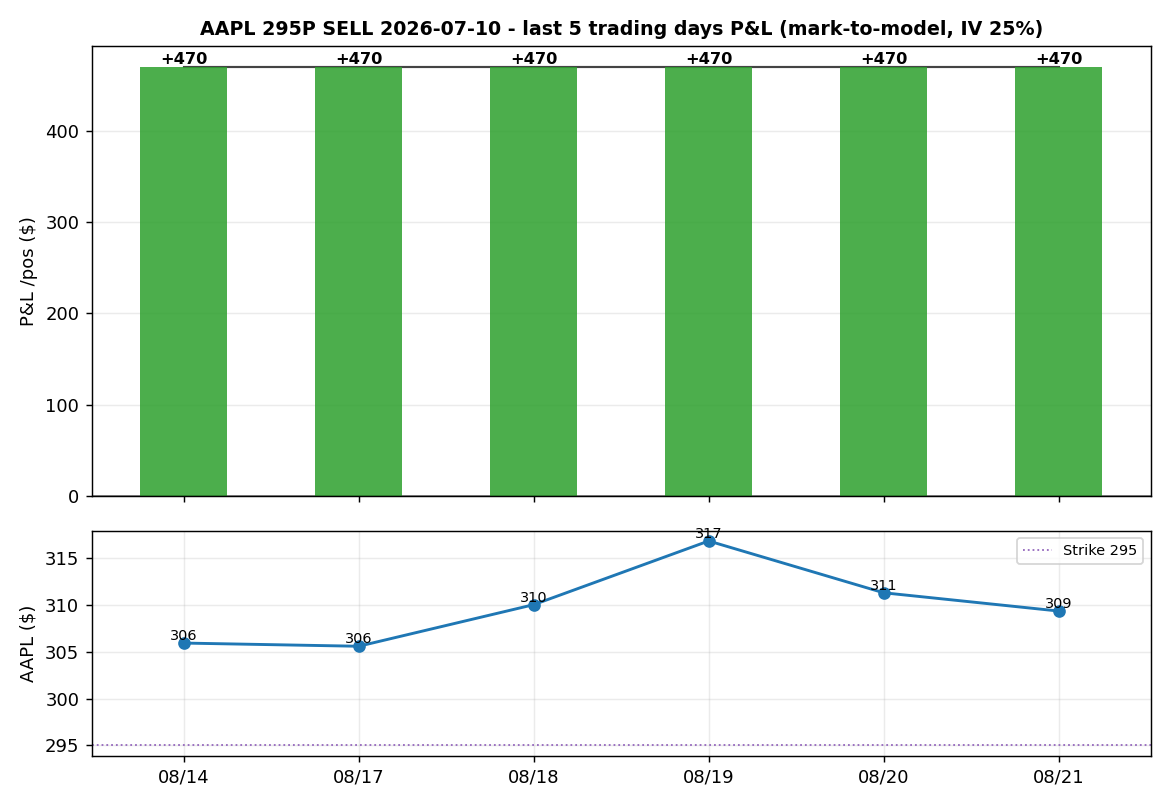
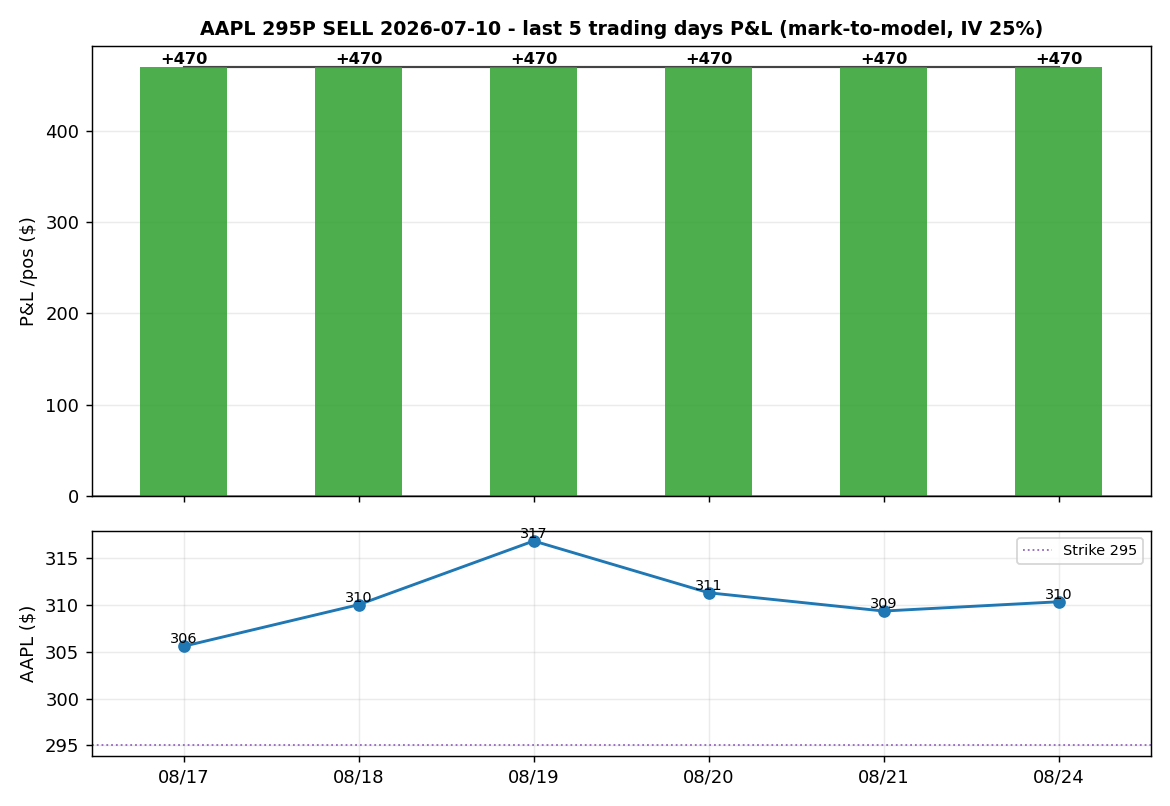
positions: 2026-08-24

diff --git a/positions.html b/positions.html
@@ -12,12 +12,12 @@ img{width:100%;height:auto;border-radius:8px;background:#fff}
 .warn{color:#e0a030;font-size:12.5px;line-height:1.7;margin-top:8px}
 </style></head><body><div class="wrap">
 <h1>持仓盈亏追踪</h1>
-<div class="sub">独立于每日荐股 · 数据 yfinance(延迟) · 盈亏为 BS 模型重算(IV 代理),非真实成交价 · 非投资建议<br>更新: 2026-08-21 21:51 UTC</div>
+<div class="sub">独立于每日荐股 · 数据 yfinance(延迟) · 盈亏为 BS 模型重算(IV 代理),非真实成交价 · 非投资建议<br>更新: 2026-08-24 21:55 UTC</div>
 <div class="card">
   <h2>STX Seagate · 835 PUT <span class="tag">SELL</span></h2>
   <div class="kv">到期 2026-06-26 · 建仓 2026-06-01 @ 权利金 $42.11 · 1 张<br>
-  最新(08/21): 标的 $850.0 · 浮动盈亏 <b class="g">+4,211</b>
-  (区间 +3,967 ~ +4,211)<br>
+  最新(08/24): 标的 $794.65 · 浮动盈亏 <b class="g">+176</b>
+  (区间 +176 ~ +4,211)<br>
   盈亏平衡 $792.89 · <b>赢的机率 PoP ≈ None%</b>(到期落在盈利侧, BS 估算)<br>
   下次财报 2026-10-27 ✅ 在到期后</div>
   <div style="font-size:12px;color:#8b8f98;margin:8px 0 2px">到期损益示意图</div>
@@ -30,14 +30,14 @@ img{width:100%;height:auto;border-radius:8px;background:#fff}
     <tr><th style="border:1px solid #23262d;padding:5px 12px;color:#e0a030">日期</th>
         <th style="border:1px solid #23262d;padding:5px 12px;color:#e0a030">标的</th>
         <th style="border:1px solid #23262d;padding:5px 12px;color:#e0a030">P&L</th></tr>
-    <tr><td style="border:1px solid #23262d;padding:5px 12px">08/14</td><td style="border:1px solid #23262d;padding:5px 12px">$973.44</td><td class='g'>+4,211</td></tr><tr><td style="border:1px solid #23262d;padding:5px 12px">08/17</td><td style="border:1px solid #23262d;padding:5px 12px">$994.79</td><td class='g'>+4,211</td></tr><tr><td style="border:1px solid #23262d;padding:5px 12px">08/18</td><td style="border:1px solid #23262d;padding:5px 12px">$903.68</td><td class='g'>+4,211</td></tr><tr><td style="border:1px solid #23262d;padding:5px 12px">08/19</td><td style="border:1px solid #23262d;padding:5px 12px">$832.56</td><td class='g'>+3,967</td></tr><tr><td style="border:1px solid #23262d;padding:5px 12px">08/20</td><td style="border:1px solid #23262d;padding:5px 12px">$850.24</td><td class='g'>+4,211</td></tr><tr><td style="border:1px solid #23262d;padding:5px 12px">08/21</td><td style="border:1px solid #23262d;padding:5px 12px">$850.0</td><td class='g'>+4,211</td></tr>
+    <tr><td style="border:1px solid #23262d;padding:5px 12px">08/17</td><td style="border:1px solid #23262d;padding:5px 12px">$994.79</td><td class='g'>+4,211</td></tr><tr><td style="border:1px solid #23262d;padding:5px 12px">08/18</td><td style="border:1px solid #23262d;padding:5px 12px">$903.68</td><td class='g'>+4,211</td></tr><tr><td style="border:1px solid #23262d;padding:5px 12px">08/19</td><td style="border:1px solid #23262d;padding:5px 12px">$832.56</td><td class='g'>+3,967</td></tr><tr><td style="border:1px solid #23262d;padding:5px 12px">08/20</td><td style="border:1px solid #23262d;padding:5px 12px">$850.24</td><td class='g'>+4,211</td></tr><tr><td style="border:1px solid #23262d;padding:5px 12px">08/21</td><td style="border:1px solid #23262d;padding:5px 12px">$850.0</td><td class='g'>+4,211</td></tr><tr><td style="border:1px solid #23262d;padding:5px 12px">08/24</td><td style="border:1px solid #23262d;padding:5px 12px">$794.65</td><td class='g'>+176</td></tr>
   </table>
   <div class="warn">⚠ mark-to-model:用真实日线 + BS 重算(IV 固定 86% 代理),非真实期权成交价。</div>
 </div>
 <div class="card">
   <h2>GOOGL 谷歌 · 345 PUT <span class="tag">SELL</span></h2>
   <div class="kv">到期 2026-07-17 · 建仓 2026-06-01 @ 权利金 $4.5 · 1 张<br>
-  最新(08/21): 标的 $344.82 · 浮动盈亏 <b class="g">+432</b>
+  最新(08/24): 标的 $348.06 · 浮动盈亏 <b class="g">+450</b>
   (区间 +17 ~ +450)<br>
   盈亏平衡 $340.5 · <b>赢的机率 PoP ≈ None%</b>(到期落在盈利侧, BS 估算)<br>
   下次财报 2026-10-28 ✅ 在到期后</div>
@@ -51,14 +51,14 @@ img{width:100%;height:auto;border-radius:8px;background:#fff}
     <tr><th style="border:1px solid #23262d;padding:5px 12px;color:#e0a030">日期</th>
         <th style="border:1px solid #23262d;padding:5px 12px;color:#e0a030">标的</th>
         <th style="border:1px solid #23262d;padding:5px 12px;color:#e0a030">P&L</th></tr>
-    <tr><td style="border:1px solid #23262d;padding:5px 12px">08/14</td><td style="border:1px solid #23262d;padding:5px 12px">$345.9</td><td class='g'>+450</td></tr><tr><td style="border:1px solid #23262d;padding:5px 12px">08/17</td><td style="border:1px solid #23262d;padding:5px 12px">$344.0</td><td class='g'>+350</td></tr><tr><td style="border:1px solid #23262d;padding:5px 12px">08/18</td><td style="border:1px solid #23262d;padding:5px 12px">$344.2</td><td class='g'>+370</td></tr><tr><td style="border:1px solid #23262d;padding:5px 12px">08/19</td><td style="border:1px solid #23262d;padding:5px 12px">$344.72</td><td class='g'>+422</td></tr><tr><td style="border:1px solid #23262d;padding:5px 12px">08/20</td><td style="border:1px solid #23262d;padding:5px 12px">$340.67</td><td class='g'>+17</td></tr><tr><td style="border:1px solid #23262d;padding:5px 12px">08/21</td><td style="border:1px solid #23262d;padding:5px 12px">$344.82</td><td class='g'>+432</td></tr>
+    <tr><td style="border:1px solid #23262d;padding:5px 12px">08/17</td><td style="border:1px solid #23262d;padding:5px 12px">$344.0</td><td class='g'>+350</td></tr><tr><td style="border:1px solid #23262d;padding:5px 12px">08/18</td><td style="border:1px solid #23262d;padding:5px 12px">$344.2</td><td class='g'>+370</td></tr><tr><td style="border:1px solid #23262d;padding:5px 12px">08/19</td><td style="border:1px solid #23262d;padding:5px 12px">$344.72</td><td class='g'>+422</td></tr><tr><td style="border:1px solid #23262d;padding:5px 12px">08/20</td><td style="border:1px solid #23262d;padding:5px 12px">$340.67</td><td class='g'>+17</td></tr><tr><td style="border:1px solid #23262d;padding:5px 12px">08/21</td><td style="border:1px solid #23262d;padding:5px 12px">$344.82</td><td class='g'>+432</td></tr><tr><td style="border:1px solid #23262d;padding:5px 12px">08/24</td><td style="border:1px solid #23262d;padding:5px 12px">$348.06</td><td class='g'>+450</td></tr>
   </table>
   <div class="warn">⚠ mark-to-model:用真实日线 + BS 重算(IV 固定 31% 代理),非真实期权成交价。</div>
 </div>
 <div class="card">
   <h2>AAPL 苹果 · 295 PUT <span class="tag">SELL</span></h2>
   <div class="kv">到期 2026-07-10 · 建仓 2026-06-01 @ 权利金 $4.7 · 1 张<br>
-  最新(08/21): 标的 $309.35 · 浮动盈亏 <b class="g">+470</b>
+  最新(08/24): 标的 $310.34 · 浮动盈亏 <b class="g">+470</b>
   (区间 +470 ~ +470)<br>
   盈亏平衡 $290.3 · <b>赢的机率 PoP ≈ None%</b>(到期落在盈利侧, BS 估算)<br>
   下次财报 2026-10-29 ✅ 在到期后</div>
@@ -72,7 +72,7 @@ img{width:100%;height:auto;border-radius:8px;background:#fff}
     <tr><th style="border:1px solid #23262d;padding:5px 12px;color:#e0a030">日期</th>
         <th style="border:1px solid #23262d;padding:5px 12px;color:#e0a030">标的</th>
         <th style="border:1px solid #23262d;padding:5px 12px;color:#e0a030">P&L</th></tr>
-    <tr><td style="border:1px solid #23262d;padding:5px 12px">08/14</td><td style="border:1px solid #23262d;padding:5px 12px">$305.93</td><td class='g'>+470</td></tr><tr><td style="border:1px solid #23262d;padding:5px 12px">08/17</td><td style="border:1px solid #23262d;padding:5px 12px">$305.59</td><td class='g'>+470</td></tr><tr><td style="border:1px solid #23262d;padding:5px 12px">08/18</td><td style="border:1px solid #23262d;padding:5px 12px">$310.03</td><td class='g'>+470</td></tr><tr><td style="border:1px solid #23262d;padding:5px 12px">08/19</td><td style="border:1px solid #23262d;padding:5px 12px">$316.83</td><td class='g'>+470</td></tr><tr><td style="border:1px solid #23262d;padding:5px 12px">08/20</td><td style="border:1px solid #23262d;padding:5px 12px">$311.3</td><td class='g'>+470</td></tr><tr><td style="border:1px solid #23262d;padding:5px 12px">08/21</td><td style="border:1px solid #23262d;padding:5px 12px">$309.35</td><td class='g'>+470</td></tr>
+    <tr><td style="border:1px solid #23262d;padding:5px 12px">08/17</td><td style="border:1px solid #23262d;padding:5px 12px">$305.59</td><td class='g'>+470</td></tr><tr><td style="border:1px solid #23262d;padding:5px 12px">08/18</td><td style="border:1px solid #23262d;padding:5px 12px">$310.03</td><td class='g'>+470</td></tr><tr><td style="border:1px solid #23262d;padding:5px 12px">08/19</td><td style="border:1px solid #23262d;padding:5px 12px">$316.83</td><td class='g'>+470</td></tr><tr><td style="border:1px solid #23262d;padding:5px 12px">08/20</td><td style="border:1px solid #23262d;padding:5px 12px">$311.3</td><td class='g'>+470</td></tr><tr><td style="border:1px solid #23262d;padding:5px 12px">08/21</td><td style="border:1px solid #23262d;padding:5px 12px">$309.35</td><td class='g'>+470</td></tr><tr><td style="border:1px solid #23262d;padding:5px 12px">08/24</td><td style="border:1px solid #23262d;padding:5px 12px">$310.34</td><td class='g'>+470</td></tr>
   </table>
   <div class="warn">⚠ mark-to-model:用真实日线 + BS 重算(IV 固定 25% 代理),非真实期权成交价。</div>
 </div></div></body></html>
